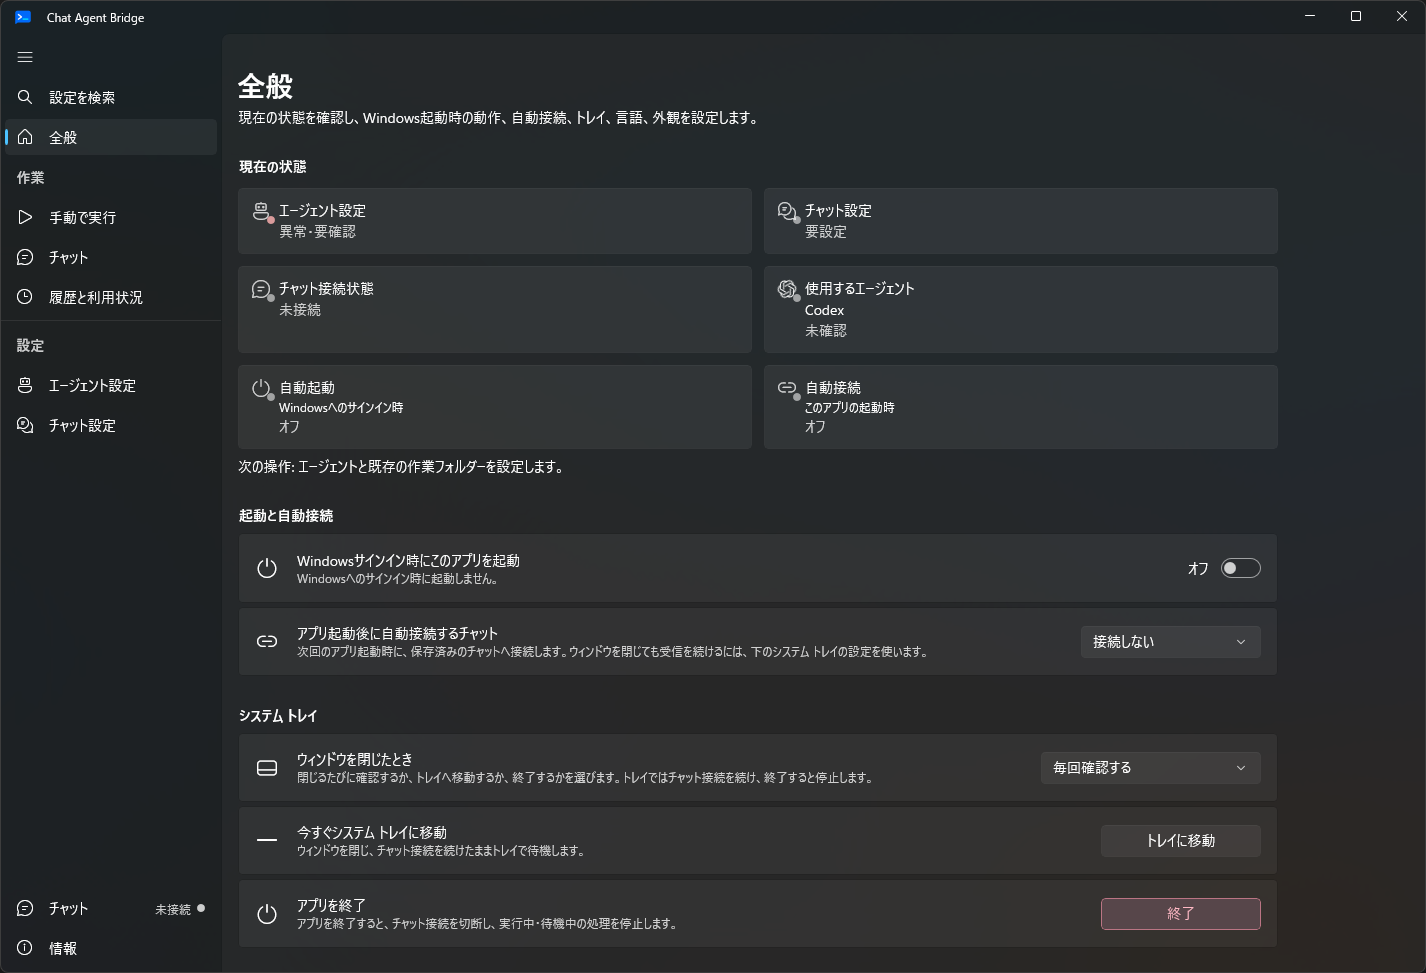
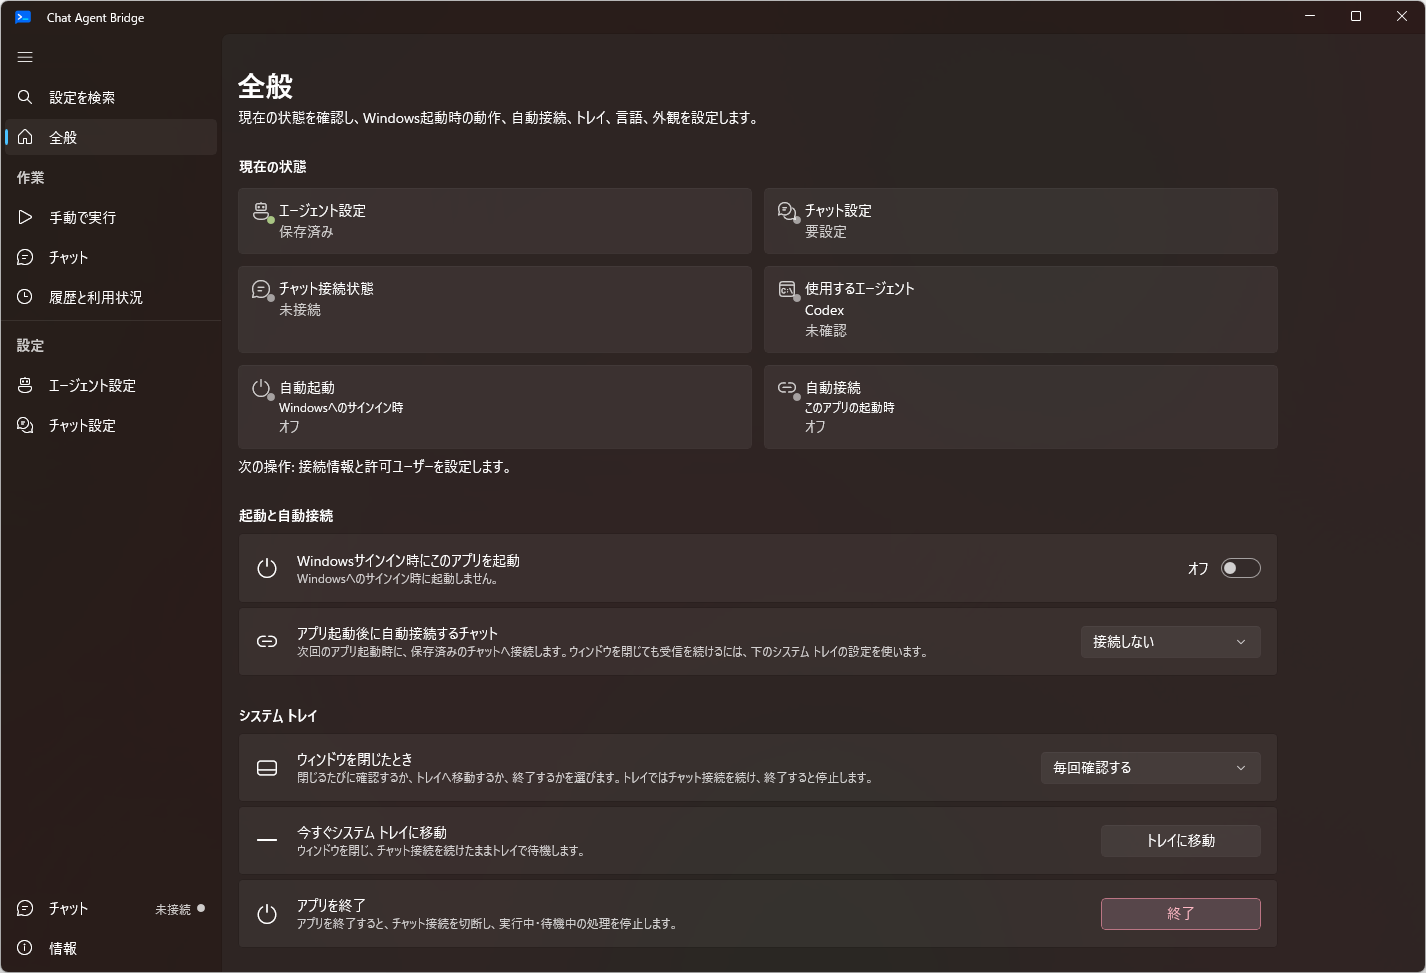
update: refresh General tab screenshots

diff --git a/docs/TODO.md b/docs/TODO.md
@@ -5,6 +5,7 @@
 ## 直近
 
 - [x] Mattermost・Slackの実行中／完了画面を撮り直し、左右2列・上下遷移の日英PNG（2560×1440）を作成。Slack実行中画面のBot返信全文も表示するよう切り出しを修正。README・ホームページへ反映し、個人アカウント情報をマスキング。ストア向けサイズを検証。ストア提出は停止中。
+- [x] 全般タブのスクリーンショットが旧アプリビルド由来だったため、現行main（`3321676`）から日本語・英語を再撮影。README・ホームページ・ストア素材を差し替え、マニフェストのSHA-256を更新。
 
 
 - [x] 1.1.0-preview.3 を公開。x64 / ARM64 ZIP の検証とSHA256、Previewフィード掲載・安定版フィード維持を確認。公開済みpreview.2から実際の公開x64 ZIPへの更新成功・ロールバックも確認。ARM64はクロスビルドのみで実機起動未確認。並行ビルド後の公開workflowは11分17秒（preview.2は14分24秒）、3分07秒短縮。

diff --git a/docs/assets/screenshots/README.md b/docs/assets/screenshots/README.md
@@ -1,6 +1,8 @@
 # README screenshots
 
 Captured on Windows on 2026-11-08 from the current native desktop development
+build. The General tab was recaptured from main commit `3321676` in an isolated
+profile after finding that the previous General images came from an older app
 build. The images show General, Agent settings, shared Chat settings, and the
 History and usage Activity tab.
 
